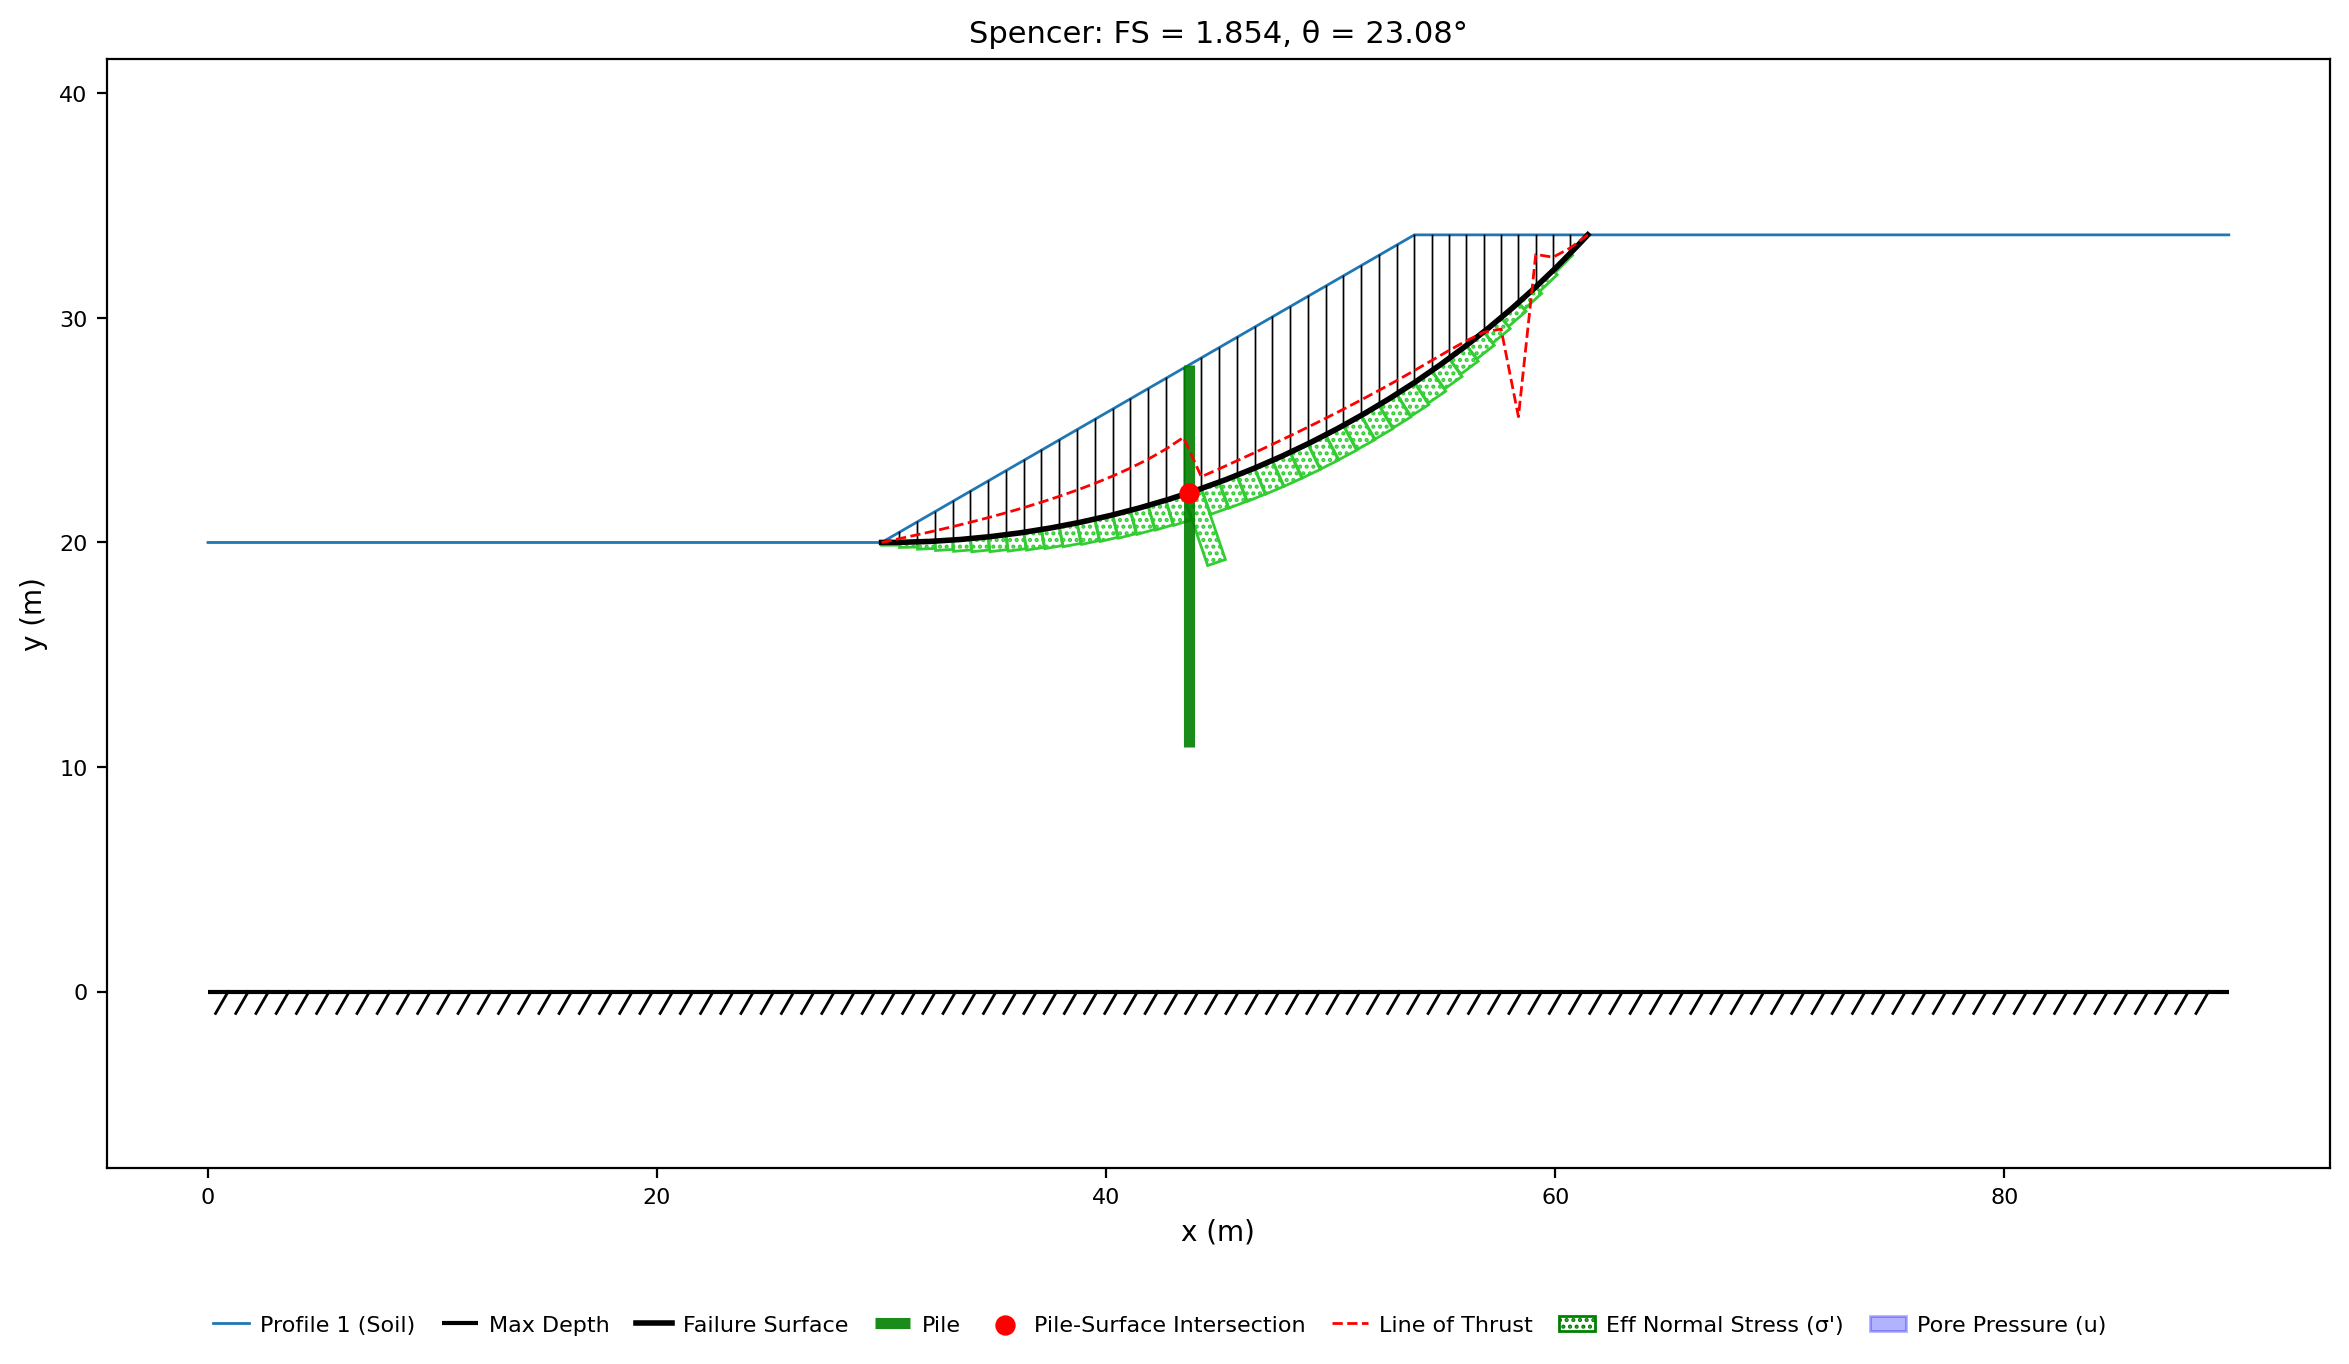
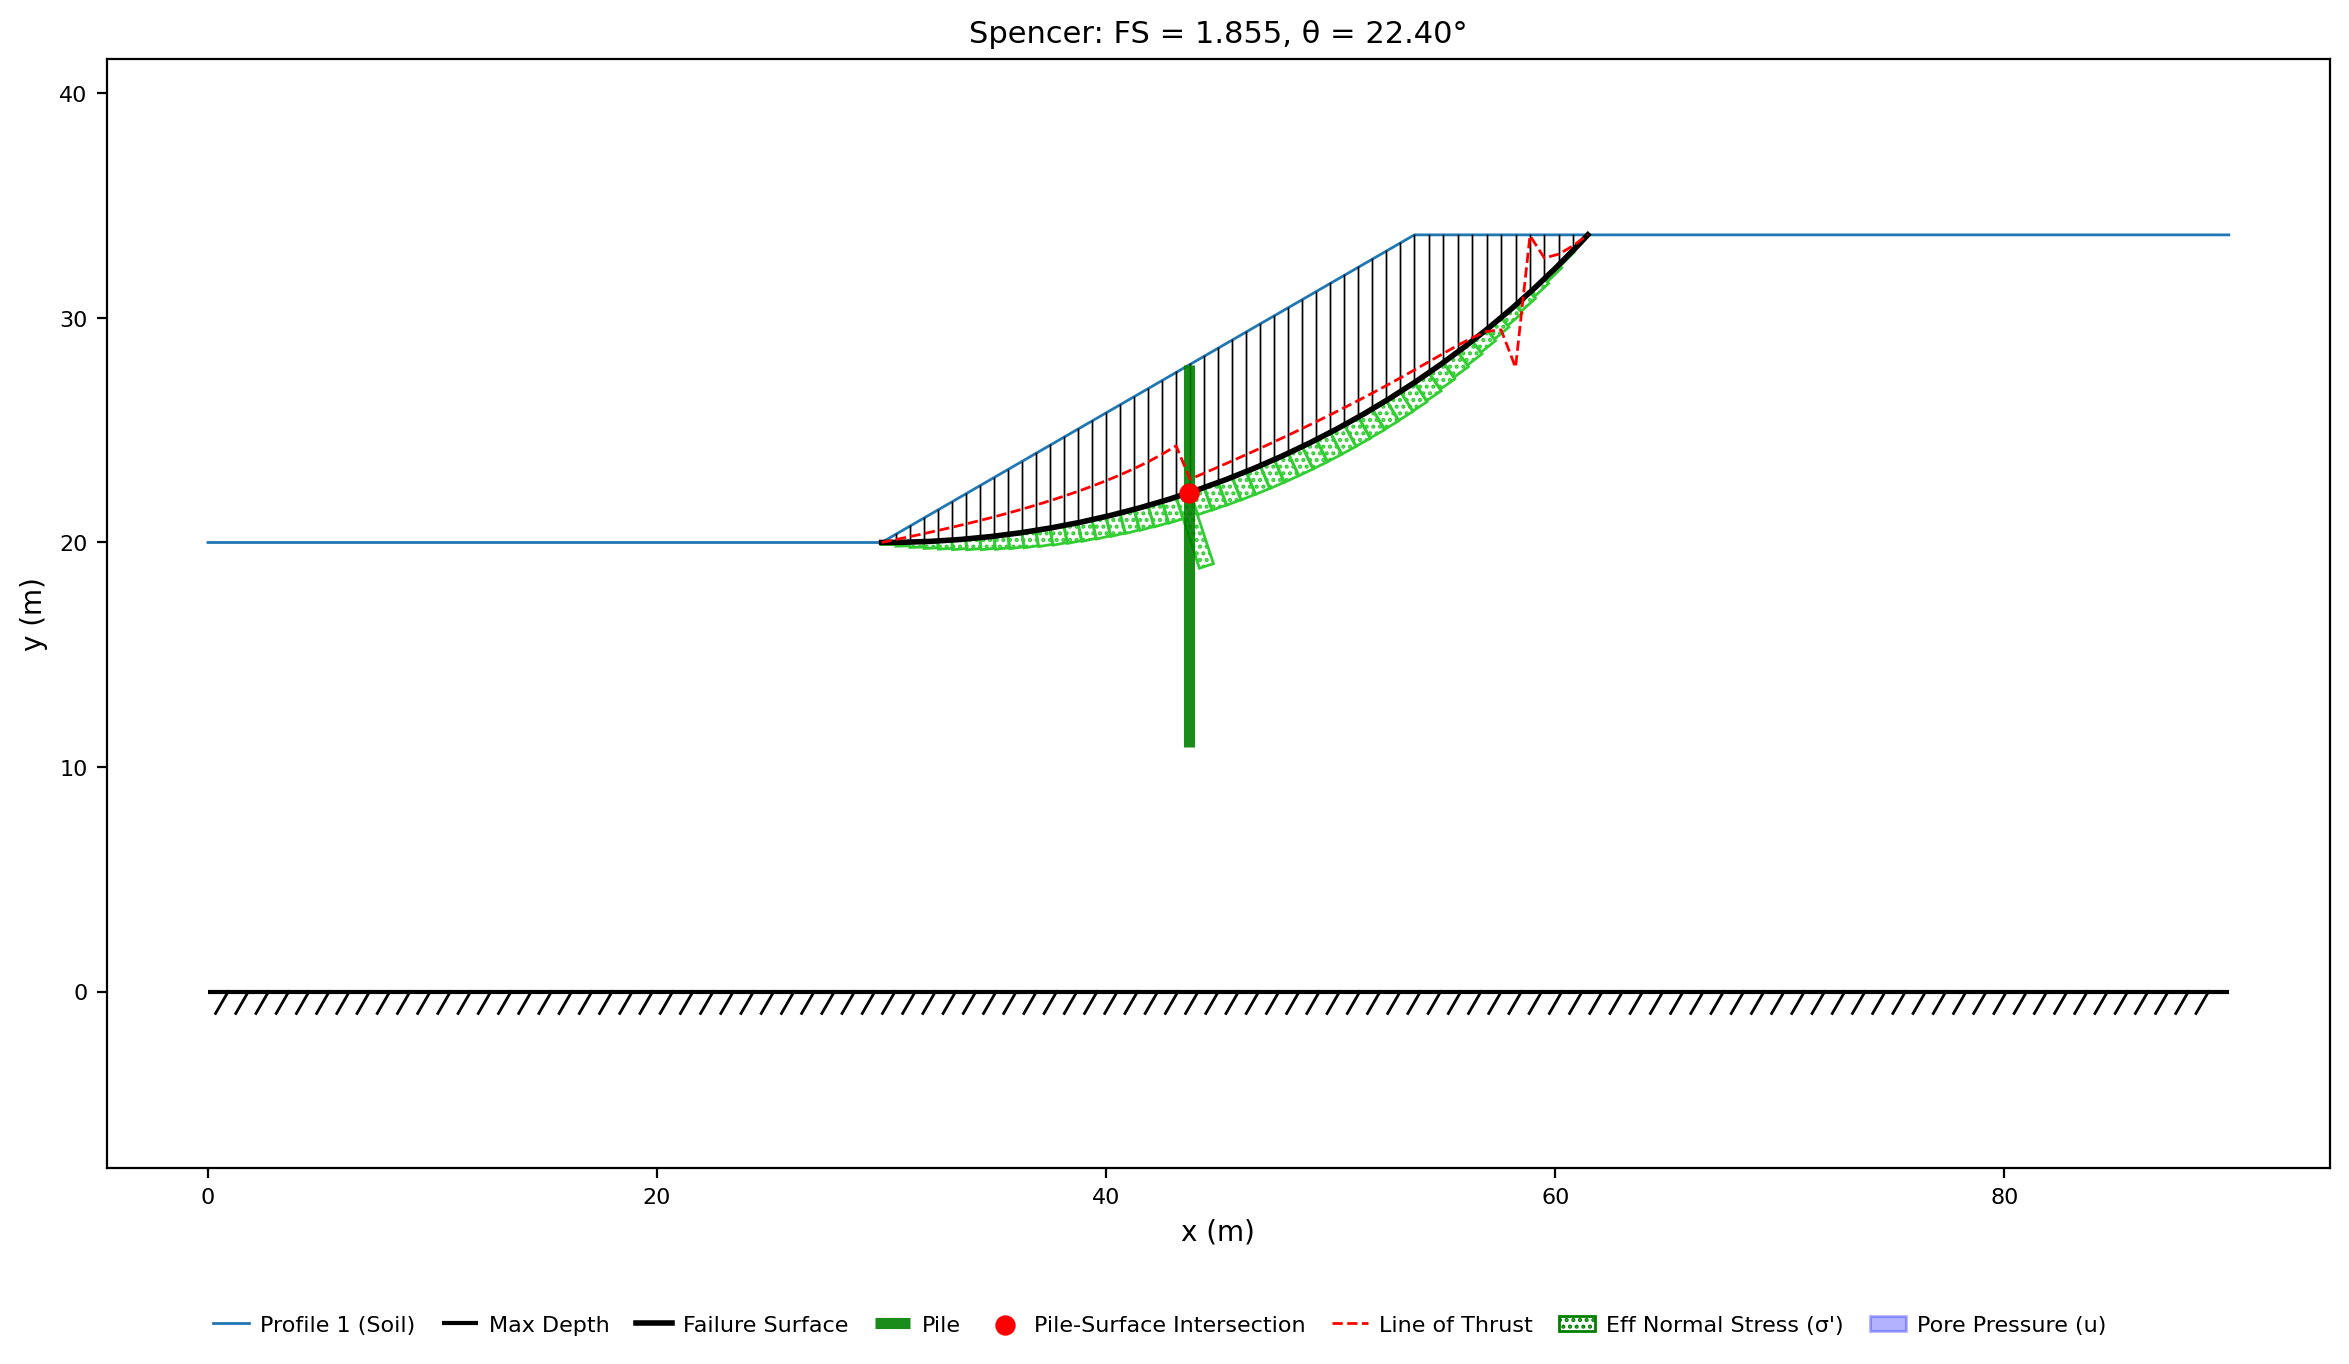
fix(gen_fs_tables): a windowed sample keeps its window when its table is regenerated
gen_fs_tables rebuilt every LEM sample tag from an unwindowed search and dropped
any entry/exit/tangent keys the tag carried, so the first windowed sample on the
page would have had its factors of safety rewritten as some other surface's and
its window silently deleted. The window now drives the search (tag first, then
the model's own circles sheet) and is written back into the rebuilt tag.

The Hassiotis rows move to the 50 slices this page's benchmark rows use, which is
what gen_fs_tables would have set: Bishop 1.106 / 1.859 / 1.289, Spencer
1.105 / 1.855 / 1.284. Figures and the Ito & Matsui walkthrough follow. 21 locks
pass; gen_fs_tables reproduces the 13.7 m tag exactly.

Claude-Session: https://claude.ai/code/session_01XjjT2aBxw8gY7EFdpoUcpj

Changed region(s): [[0.3729, 0.154, 0.6837, 0.4311], [0.5905, 0.0, 0.6215, 0.0308]]

diff --git a/benchmarks/gen_fs_tables.py b/benchmarks/gen_fs_tables.py
@@ -28,7 +28,15 @@ import sys
 
 from xslope.fileio import load_slope_data
 from xslope.slice import generate_slices
-from xslope.search import circular_search, noncircular_search
+from xslope.search import (circular_search, noncircular_search, file_search_window,
+                           noncircular_search_opts)
+
+# Search-window keys a tag may carry. They say which mechanism the problem is
+# about, so they are run WITH the search and written back INTO the rebuilt tag;
+# dropping them would rewrite a windowed problem's factors of safety as some
+# other surface's and delete the statement that it was ever windowed.
+WINDOW_KEYS = ('entry_range', 'exit_range', 'tangent_depth', 'center_box',
+               'min_slip_depth')
 from xslope.solve import solve_selected
 
 SAMPLES_MD = "docs/lem/samples.md"
@@ -95,6 +103,16 @@ def compute_fs(params):
     path = os.path.join(os.path.dirname(SAMPLES_MD), file_rel)
 
     slope_data = load_slope_data(path)
+    # The tag's own window wins; anything it leaves open comes from the model's
+    # circles sheet, which is the same reading every other search path takes.
+    win = {}
+    for key in WINDOW_KEYS:
+        raw = params.get(key)
+        if raw is None or str(raw).strip() == '':
+            continue
+        vals = tuple(float(v) for v in str(raw).split(';') if v.strip() != '')
+        win[key] = vals if len(vals) > 1 else vals[0]
+    win.update(file_search_window(slope_data, already=win))
     results = {}
     for short, solver, _ in METHODS:
         if (file_rel, short) in EXCLUDED:
@@ -115,10 +133,12 @@ def compute_fs(params):
                     r = solve_selected(solver, slice_df, rapid=rapid)
                     results[short] = r["FS"] if isinstance(r, dict) else None
                 elif test_type == "noncircular_search":
-                    fs_cache, _, _ = noncircular_search(slope_data, solver, num_slices=num_slices, rapid=rapid)
+                    fs_cache, _, _ = noncircular_search(slope_data, solver, num_slices=num_slices, rapid=rapid,
+                                                        **noncircular_search_opts(win))
                     results[short] = fs_cache[0]["FS"] if fs_cache and fs_cache[0]["FS"] < 9999 else None
                 else:  # circular_search
-                    fs_cache, _, _, _ = circular_search(slope_data, solver, num_slices=num_slices, rapid=rapid)
+                    fs_cache, _, _, _ = circular_search(slope_data, solver, num_slices=num_slices, rapid=rapid,
+                                                        **win)
                     results[short] = fs_cache[0]["FS"] if fs_cache and fs_cache[0]["FS"] < 9999 else None
         except Exception as e:
             print(f"    ! {solver} failed on {file_rel}: {e}", file=sys.stderr)
@@ -153,6 +173,9 @@ def build_tag(params, fs):
     parts = [f"file={params['file']}", f"type={params.get('type', 'circular_search')}"]
     if "num_slices" in params:
         parts.append(f"num_slices={params['num_slices']}")
+    for key in WINDOW_KEYS:
+        if params.get(key) is not None and str(params[key]).strip() != "":
+            parts.append(f"{key}={params[key]}")
     for short, _, _ in METHODS:
         v = fs.get(short)
         if v is not None and v != NA:

diff --git a/benchmarks/make_hassiotis_figures.py b/benchmarks/make_hassiotis_figures.py
@@ -32,7 +32,7 @@ ROOT = os.path.normpath(os.path.join(os.path.dirname(__file__), '..'))
 FILES = os.path.join(ROOT, 'docs', 'lem', 'files')
 IMG = os.path.join(ROOT, 'docs', 'lem', 'sample_images')
 METHOD = 'spencer'
-NUM_SLICES = 40
+NUM_SLICES = 50
 DPI = 200
 
 

diff --git a/docs/lem/samples.md b/docs/lem/samples.md
@@ -896,7 +896,7 @@ factors of safety are the full soil force, so a cap would change the quantity
 being compared. $H$ is left blank, so the Ito & Matsui force is computed for every
 trial surface from $D$, $S$ and the soil above that surface at the pile.
 
-#### Unreinforced (FS = 1.104)
+#### Unreinforced (FS = 1.105)
 
 ![hassiotis_results.png](sample_images/hassiotis_results.png){width=900}
 
@@ -904,20 +904,20 @@ Bishop's method gives 1.106 against the 1.12 Hull & Poulos (1999) report with th
 same method (−1.2%). Hassiotis et al. report 1.08 and Ausilio et al. (2001) 1.11,
 both by the friction-circle method, which XSLOPE does not implement.
 
-<!-- test: file=files/xslope_hassiotis.xlsx, type=circular_search, num_slices=40, fs_oms=1.055, fs_bishop=1.106, fs_janbu=1.104, fs_corps=1.167, fs_lowe=1.135, fs_spencer=1.104, fs_mprice=1.104, benchmark=LEM-HASSIOTIS -->
+<!-- test: file=files/xslope_hassiotis.xlsx, type=circular_search, num_slices=50, fs_oms=1.056, fs_bishop=1.106, fs_janbu=1.105, fs_corps=1.167, fs_lowe=1.135, fs_spencer=1.105, fs_mprice=1.104, benchmark=LEM-HASSIOTIS -->
 
-#### Pile row 13.7 m from the toe (FS = 1.854)
+#### Pile row 13.7 m from the toe (FS = 1.855)
 
 ![hassiotis_p1_results.png](sample_images/hassiotis_p1_results.png){width=900}
 
 Bishop's method gives 1.859 against 1.82 (Hassiotis et al., friction circle, +2.1%).
 The row raises the factor of safety by 68%.
 
-#### Pile row 23.1 m from the toe (FS = 1.276)
+#### Pile row 23.1 m from the toe (FS = 1.284)
 
 ![hassiotis_p2_results.png](sample_images/hassiotis_p2_results.png){width=900}
 
-Bishop's method gives 1.290 against 1.64 (Hassiotis et al., −21%). The row sits
+Bishop's method gives 1.289 against 1.64 (Hassiotis et al., −21%). The row sits
 0.6 m short of the crest, so every surface that reaches it crosses it within a few
 metres of the pile head, where the soil column above the surface — and with it the
 Ito & Matsui force — is small. Moving the entry limit 2 m further behind the crest
@@ -937,12 +937,12 @@ way.
 
 #### Ito & Matsui summary
 
-On the critical surface for the 13.7 m row, the surface crosses the pile 5.67 m
+On the critical surface for the 13.7 m row, the surface crosses the pile 5.72 m
 below its head. At $D = 1.0$, $S = 2.5$ and $\phi = 10°$ the coefficients are
 $A_1 = 3.2298$ and $A_2 = 1.5695$, giving a pressure of 77.3 kN/m at the head
-rising to 251.9 kN/m at the surface, a force of 932.9 kN **per pile**, and
+rising to 253.4 kN/m at the surface, a force of 945.4 kN **per pile**, and
 
-$$H = \frac{F_{\text{pile}}}{S} = \frac{932.9}{2.5} = 373.1 \ \text{kN/m of slope}$$
+$$H = \frac{F_{\text{pile}}}{S} = \frac{945.4}{2.5} = 378.2 \ \text{kN/m of slope}$$
 
 which is the per-unit-width value the slice equations apply, horizontally, at the
 pile–surface intersection.
@@ -971,8 +971,8 @@ spread rather than as a target.
 
 | OMS | Bishop | Janbu | Corps | Lowe | Spencer | M-P |
 |---:|---:|---:|---:|---:|---:|---:|
-| 1.822 | 1.859 | 1.787 | 1.881 | 1.868 | 1.854 | 1.854 |
+| 1.822 | 1.859 | 1.788 | 1.885 | 1.871 | 1.855 | 1.855 |
 <!-- /fs-table -->
 
-<!-- test: file=files/xslope_hassiotis_p1.xlsx, type=circular_search, num_slices=40, entry_range=54.0;75.0, exit_range=25.0;32.0, tangent_depth=11.01;33.7, fs_oms=1.822, fs_bishop=1.859, fs_janbu=1.787, fs_corps=1.881, fs_lowe=1.868, fs_spencer=1.854, fs_mprice=1.854, benchmark=LEM-HASSIOTIS -->
-<!-- test: file=files/xslope_hassiotis_p2.xlsx, type=circular_search, num_slices=40, entry_range=54.0;75.0, exit_range=25.0;32.0, tangent_depth=16.44;33.7, fs_oms=1.244, fs_bishop=1.290, fs_janbu=1.373, fs_corps=1.378, fs_lowe=1.343, fs_spencer=1.276, fs_mprice=1.291, benchmark=LEM-HASSIOTIS -->
+<!-- test: file=files/xslope_hassiotis_p1.xlsx, type=circular_search, num_slices=50, entry_range=54.0;75.0, exit_range=25.0;32.0, tangent_depth=11.01;33.7, fs_oms=1.822, fs_bishop=1.859, fs_janbu=1.788, fs_corps=1.885, fs_lowe=1.871, fs_spencer=1.855, fs_mprice=1.855, benchmark=LEM-HASSIOTIS -->
+<!-- test: file=files/xslope_hassiotis_p2.xlsx, type=circular_search, num_slices=50, entry_range=54.0;75.0, exit_range=25.0;32.0, tangent_depth=16.44;33.7, fs_oms=1.244, fs_bishop=1.289, fs_janbu=1.373, fs_corps=1.385, fs_lowe=1.340, fs_spencer=1.284, fs_mprice=1.289, benchmark=LEM-HASSIOTIS -->
